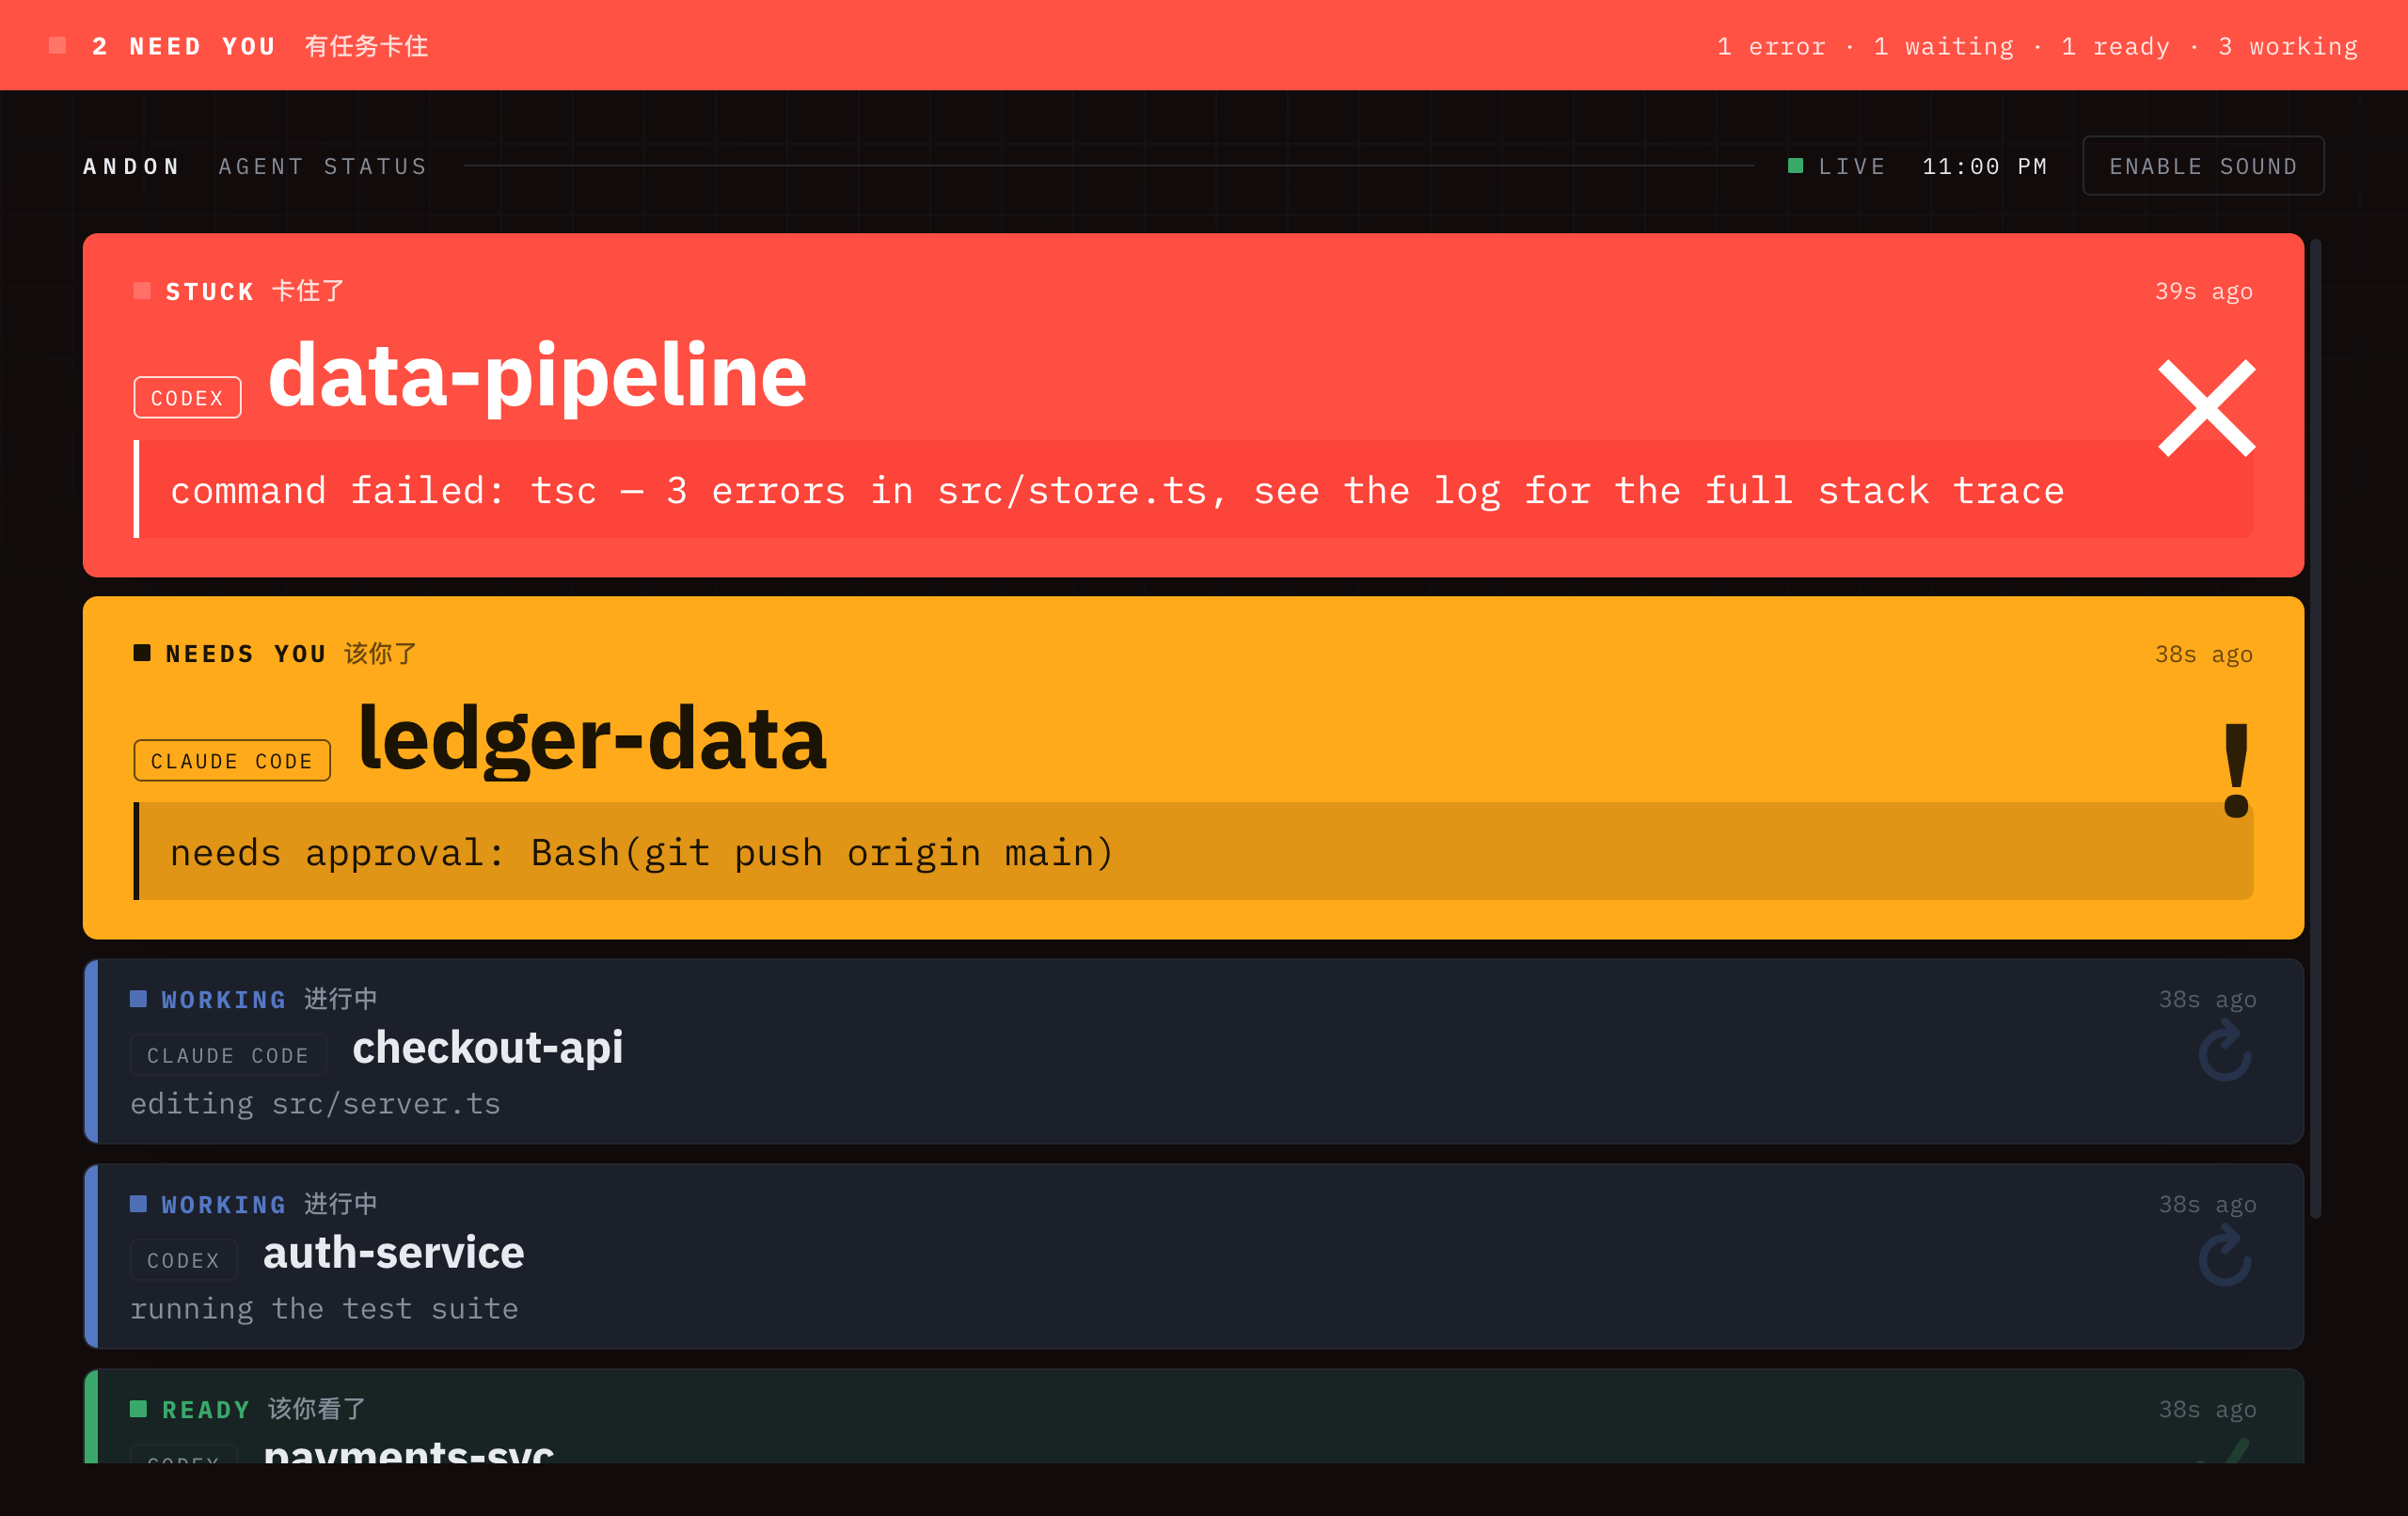
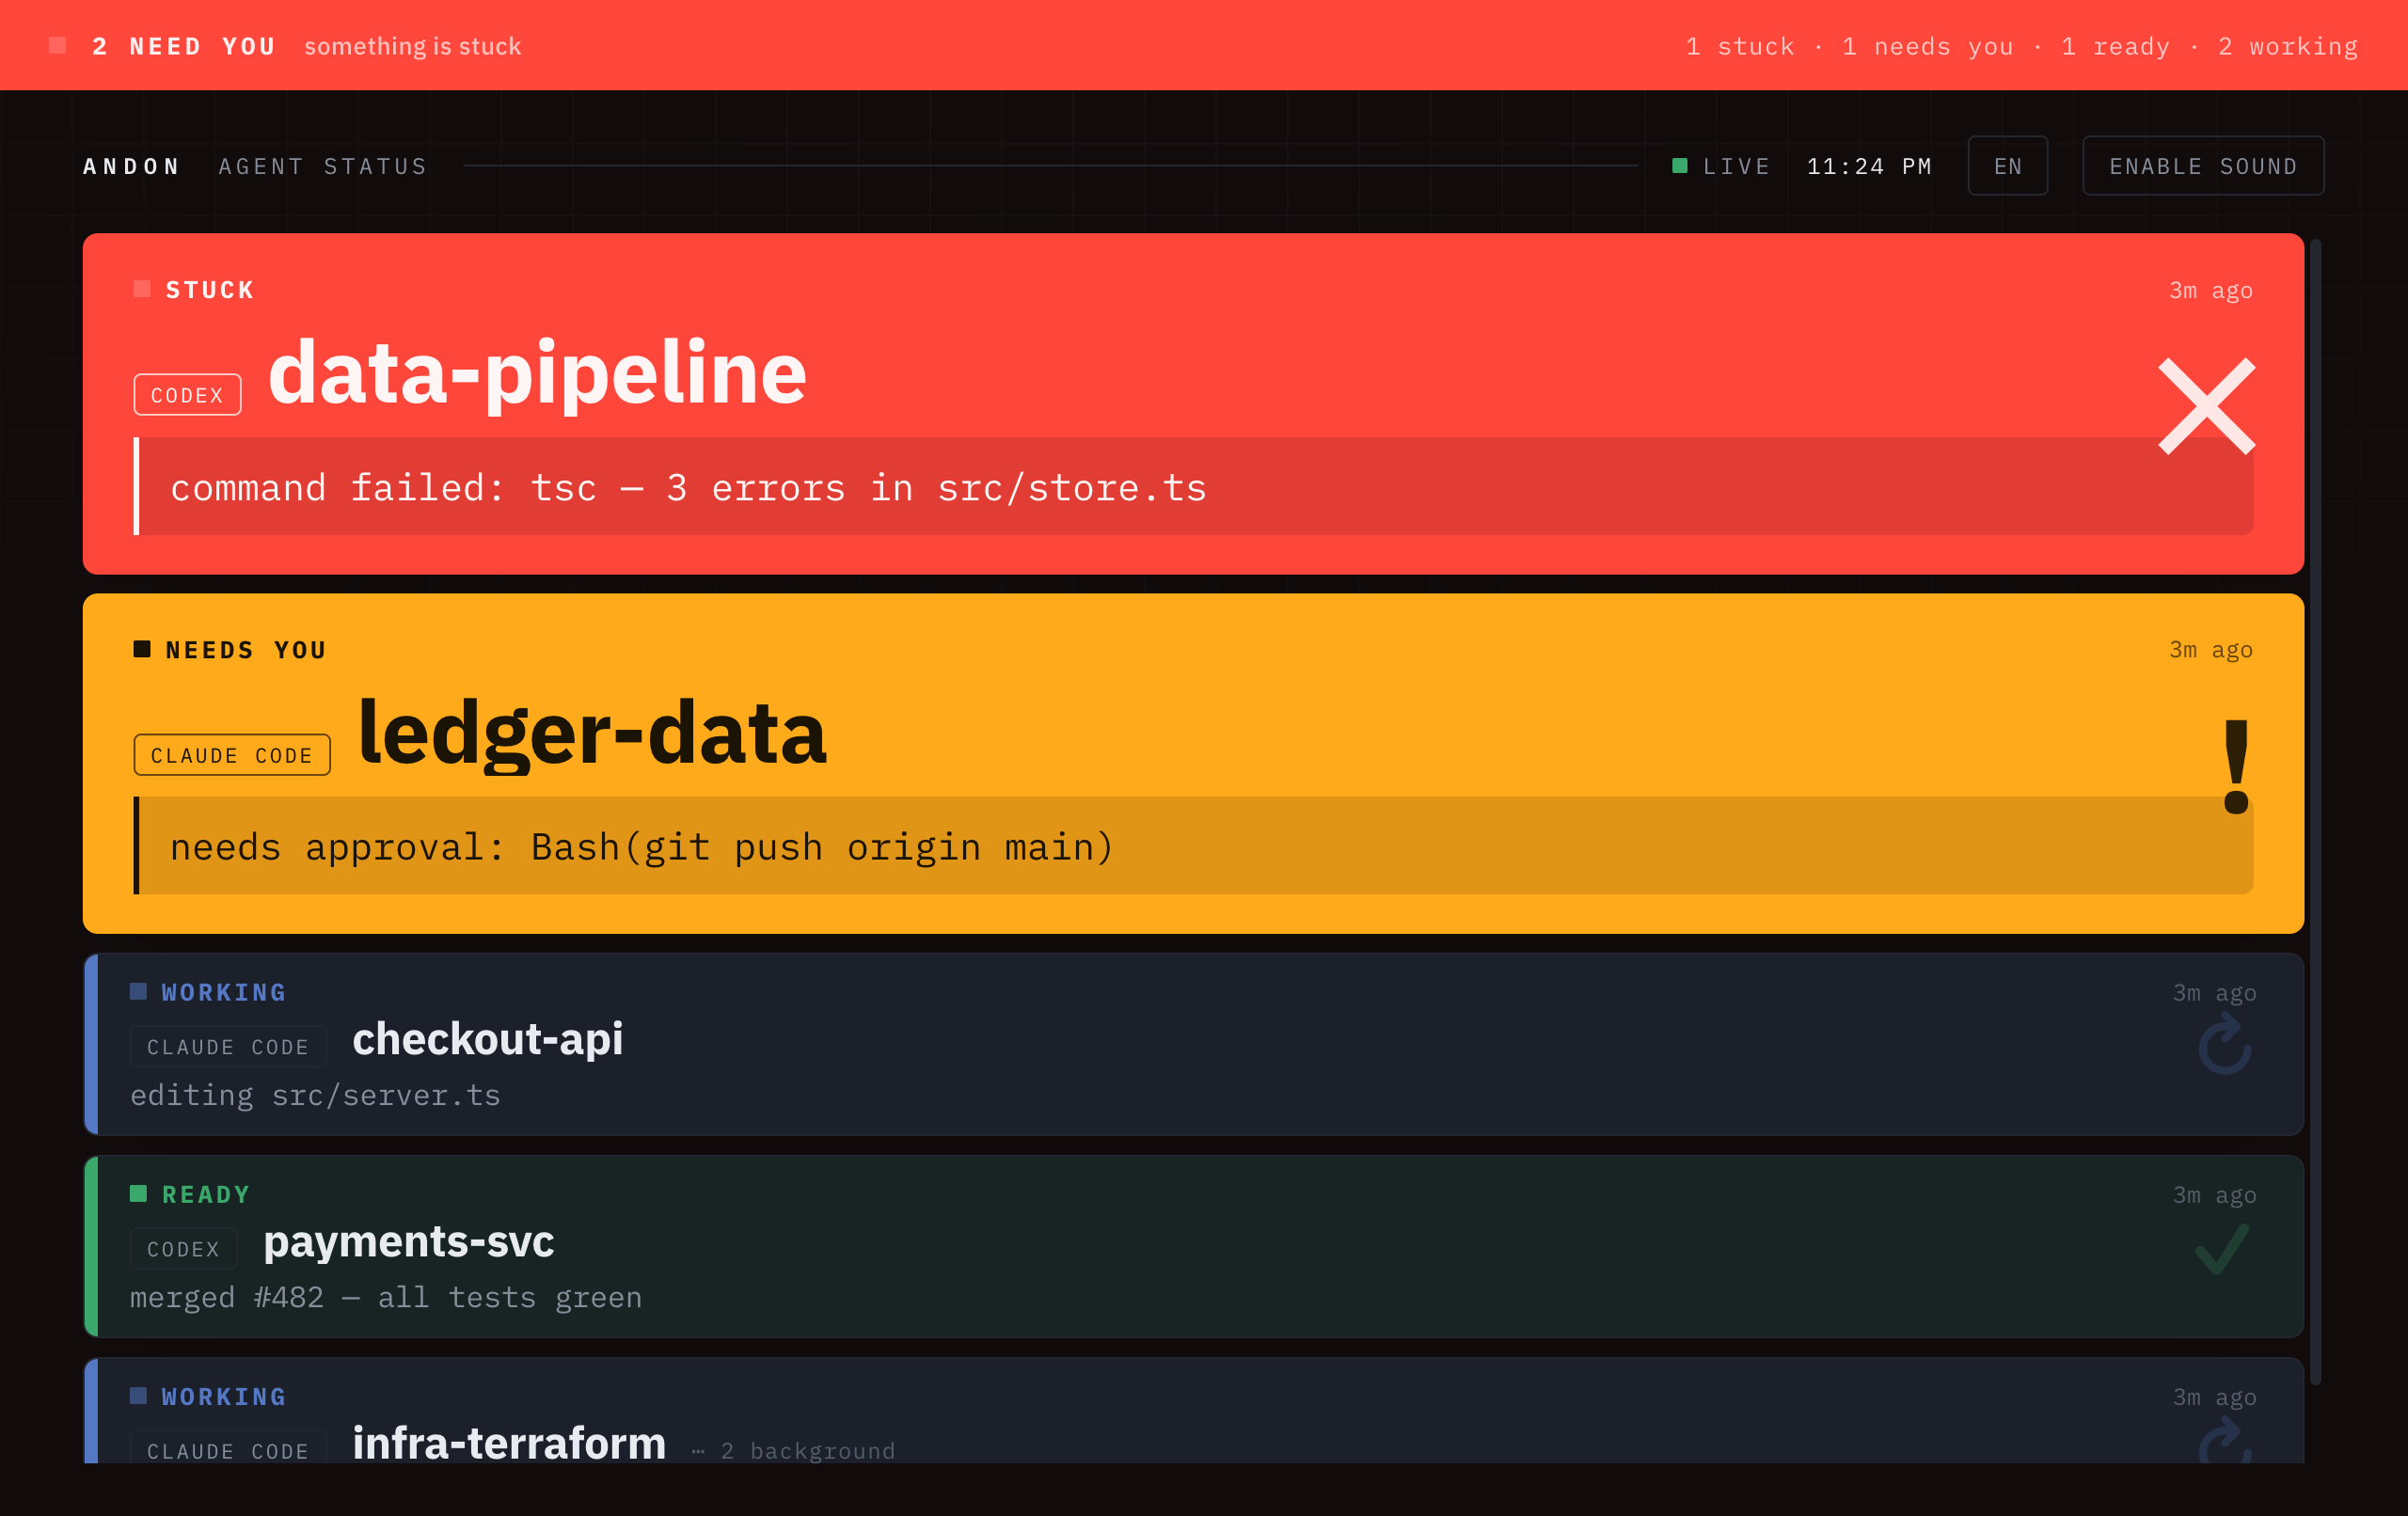
i18n: monolingual board by locale (en/zh/ja) + 双语 mode + switcher
The board was hard-coded EN+中文 everywhere — fine for a bilingual user, wrong
for everyone else, and there was no i18n at all. Add a tiny dependency-free i18n
in the single dashboard.html:

- A STR table per locale (en, zh, ja, and 'bi' = the original EN+中文 look)
  covering all chrome: state chips, the top-bar headlines, the tally nouns,
  background count, empty state, header, live/reconnecting, Enable sound, and
  locale-aware ago() (X秒前 / X分前 / Xs ago).
- Locale resolves: ?lang= → saved choice (localStorage) → navigator.language →
  English. A header language chip cycles EN/中/日/双语, re-renders live (no reload),
  and is remembered per device; <html lang> tracks it.
- Agent messages (commands, file paths) stay verbatim — only chrome is translated.
  Adding a language is one block in the STR table.

README: document the language feature; refresh the hero screenshot to English.
Verified all four locales render and the switcher cycles+persists.

diff --git a/assets/dashboard.html b/assets/dashboard.html
@@ -98,6 +98,8 @@
     transition:color .3s,border-color .3s}
   .btn:hover{color:var(--text);border-color:var(--faint)}
   .btn.on{color:var(--c-done);border-color:rgba(58,168,107,.5)}
+  /* language switcher: fixed width + no uppercasing so 中/日/双语 don't shift the row */
+  .btn.lang{min-width:3.4em;text-align:center;text-transform:none;letter-spacing:.04em}
 
   /* ── the board: one process = one card, fixed slot, never reordered.
         a card appears when its process starts and is removed only when the
@@ -228,10 +230,11 @@
   <div class="app">
     <div class="head">
       <span class="brand">ANDON</span>
-      <span>agent status</span>
+      <span id="headLabel">agent status</span>
       <span class="rule"></span>
       <span class="conn" id="conn"><span class="led"></span><span class="conn-txt">live</span></span>
       <span class="clock" id="clock">--:--</span>
+      <button class="btn lang" id="langBtn" title="Language · 语言 · 言語">EN</button>
       <button class="btn" id="soundBtn">Enable sound</button>
     </div>
     <div class="board" id="board"></div>
@@ -245,13 +248,73 @@
    does, holds a FIXED slot, and only its colour/word change. Nothing is
    dismissable — a card leaves only when the process ends or times out. */
 const PRI   = {error:0, waiting:1, done:2, working:3, idle:4};
-const WORDS = {
-  working:["WORKING","进行中"],
-  waiting:["NEEDS YOU","该你了"],
-  done   :["READY","该你看了"],   // a turn handed back ≠ "all done"; green means "your move"
-  error  :["STUCK","卡住了"],
-  idle   :["IDLE","空闲"],
+
+/* ---------- i18n ----------------------------------------------------------------
+   The board chrome is monolingual per the viewer's locale, with a 双语 (EN+中文)
+   option for bilingual folks. Only CHROME is translated — agent messages
+   (e.g. "needs approval: Bash(git push)", "editing src/server.ts") are code and
+   stay verbatim. Add a language = add one block to STR. Locale resolves as:
+   ?lang=  →  saved choice (localStorage)  →  navigator.language  →  English. */
+function agoEn(s){ if(s<60)return s+"s ago"; const m=(s/60)|0; if(m<60)return m+"m ago"; return ((m/60)|0)+"h "+(m%60)+"m ago"; }
+function agoZh(s){ if(s<60)return s+"秒前"; const m=(s/60)|0; if(m<60)return m+"分钟前"; return ((m/60)|0)+"小时"+(m%60)+"分前"; }
+function agoJa(s){ if(s<60)return s+"秒前"; const m=(s/60)|0; if(m<60)return m+"分前"; return ((m/60)|0)+"時間"+(m%60)+"分前"; }
+
+const STR = {
+  en: {
+    chip:{working:["WORKING",""],waiting:["NEEDS YOU",""],done:["READY",""],error:["STUCK",""],idle:["IDLE",""]},
+    bar:{ error:n=>[n+" NEED YOU","something is stuck"], waiting:n=>[n+" NEED"+(n>1?"":"S")+" YOU","your move"],
+          working:()=>["RUNNING","all running · relax"], done:()=>["YOUR MOVE","all ready · take a look"], idle:()=>["IDLE","nothing running"] },
+    tally:{error:"stuck",waiting:"needs you",done:"ready",working:"working",idle:"idle"}, none:"no agents running",
+    bg:n=>"⋯ "+n+" background",
+    empty:{big:"IDLE",cn:"",sub:"start a run in Claude Code or Codex — it lights up here"},
+    head:"agent status", live:"live", recon:"reconnecting…", off:"OFFLINE", offCn:"lost the Mac", offTally:"reconnecting…",
+    sound:"Enable sound", soundOn:"Sound on", ago:agoEn,
+  },
+  zh: {
+    chip:{working:["进行中",""],waiting:["该你了",""],done:["该你看了",""],error:["卡住了",""],idle:["空闲",""]},
+    bar:{ error:n=>[n+" 个卡住","有任务卡住了"], waiting:n=>[n+" 个待你","该你出手"],
+          working:()=>["运行中","都在跑 · 放心忙别的"], done:()=>["该你看了","都就绪 · 看一眼"], idle:()=>["空闲","没有进程在跑"] },
+    tally:{error:"卡住",waiting:"待你",done:"就绪",working:"运行",idle:"空闲"}, none:"没有进程在跑",
+    bg:n=>"⋯ "+n+" 个后台运行",
+    empty:{big:"空闲",cn:"",sub:"在 Claude Code 或 Codex 跑个任务，这里就会亮起"},
+    head:"状态看板", live:"在线", recon:"重连中…", off:"已离线", offCn:"与 Mac 失联", offTally:"重连中…",
+    sound:"开启提示音", soundOn:"提示音开", ago:agoZh,
+  },
+  ja: {
+    chip:{working:["稼働中",""],waiting:["要対応",""],done:["確認して",""],error:["停止",""],idle:["待機中",""]},
+    bar:{ error:n=>[n+" 件 要対応","タスクが停止"], waiting:n=>[n+" 件 要対応","あなたの番です"],
+          working:()=>["稼働中","実行中 · 別の作業をどうぞ"], done:()=>["確認して","すべて完了 · ご確認を"], idle:()=>["待機中","稼働中のタスクなし"] },
+    tally:{error:"停止",waiting:"要対応",done:"完了",working:"稼働",idle:"待機"}, none:"稼働中のエージェントなし",
+    bg:n=>"⋯ "+n+" 件 バックグラウンド",
+    empty:{big:"待機中",cn:"",sub:"Claude Code か Codex でタスクを開始すると、ここに表示されます"},
+    head:"エージェント状態", live:"接続中", recon:"再接続中…", off:"オフライン", offCn:"Mac と切断", offTally:"再接続中…",
+    sound:"サウンドを有効化", soundOn:"サウンド ON", ago:agoJa,
+  },
+  bi: { /* 双语 — the original EN + 中文 look */
+    chip:{working:["WORKING","进行中"],waiting:["NEEDS YOU","该你了"],done:["READY","该你看了"],error:["STUCK","卡住了"],idle:["IDLE","空闲"]},
+    bar:{ error:n=>[n+" NEED YOU","有任务卡住"], waiting:n=>[n+" NEED"+(n>1?"":"S")+" YOU","该你出手"],
+          working:()=>["RUNNING","进行中 · 放心忙别的"], done:()=>["YOUR MOVE","都就绪 · 该你看了"], idle:()=>["IDLE","空闲"] },
+    tally:{error:"stuck",waiting:"needs you",done:"ready",working:"working",idle:"idle"}, none:"no agents running",
+    bg:n=>"⋯ "+n+" 后台运行 · background",
+    empty:{big:"IDLE",cn:"没有进程在跑",sub:"跑个任务就会亮起来 · start a run in Claude Code or Codex"},
+    head:"agent status", live:"live", recon:"reconnecting…", off:"OFFLINE", offCn:"失联", offTally:"reconnecting…",
+    sound:"Enable sound", soundOn:"Sound on", ago:agoEn,
+  },
 };
+const LOCALES = ["en","zh","ja","bi"];
+const LANG_LABEL = {en:"EN", zh:"中", ja:"日", bi:"双语"};
+function resolveLang(){
+  const q = new URLSearchParams(location.search).get("lang");
+  if (q && STR[q]) return q;
+  let saved=null; try { saved = localStorage.getItem("andon.lang"); } catch(e){}
+  if (saved && STR[saved]) return saved;
+  const n = (navigator.language || "en").toLowerCase();
+  if (n.indexOf("zh") === 0) return "zh";
+  if (n.indexOf("ja") === 0) return "ja";
+  return "en";
+}
+let LANG = resolveLang();
+const S = () => STR[LANG] || STR.en;
 
 /* A process whose foreground stopped (done) but still has background tasks is
    NOT done — it reads as still running. Attention states are never masked. */
@@ -267,6 +330,8 @@ const conn    = document.getElementById("conn");
 const connTxt = conn.querySelector(".conn-txt");
 const clock   = document.getElementById("clock");
 const soundBtn= document.getElementById("soundBtn");
+const langBtn = document.getElementById("langBtn");
+const headLabel = document.getElementById("headLabel");
 const andonWord  = document.getElementById("andonWord");
 const andonCn    = document.getElementById("andonCn");
 const andonTally = document.getElementById("andonTally");
@@ -277,6 +342,7 @@ let order = [];                    // stable card order (first-seen wins; never 
 const cards = new Map();           // id -> card element (reused in place)
 let prevState = {};
 let primed = false;
+let connOk = true;                 // last connection state, for re-rendering on language change
 
 const DONE_GRACE_MS = 4000;   // a "done" must persist this long before it goes green
 const doneSince = new Map();  // id -> serverTime(ms) it first read done (debounce)
@@ -285,14 +351,7 @@ let graceTimer = null;
 const nowSec = () => Date.now()/1000;
 const serverNow = () => nowSec() + skew;
 const agentLabel = a => AGENTS[a] || (a || "AGENT").toUpperCase();
-function ago(sec){
-  sec = Math.max(0, Math.round(sec));
-  if (sec < 60) return sec + "s ago";
-  const m = Math.floor(sec/60);
-  if (m < 60) return m + "m ago";
-  const h = Math.floor(m/60);
-  return h + "h " + (m%60) + "m ago";
-}
+function ago(sec){ return S().ago(Math.max(0, Math.round(sec))); }
 
 /* debounced display state: a transient "done" (a turn briefly ends, or hook
    events arrive slightly out of order) is held as "working" until it stays done
@@ -313,24 +372,26 @@ function counts(list){
   return c;
 }
 function tally(c){
+  const T = S().tally;
   const parts = [];
   for (const k of ["error","waiting","done","working","idle"])
-    if (c[k]) parts.push(c[k] + " " + (k === "done" ? "ready" : k));
+    if (c[k]) parts.push(c[k] + " " + T[k]);
   return parts.join("   ·   ");
 }
 function setBar(list){
   const c = counts(list);
   const need = (c.error || 0) + (c.waiting || 0);
-  let dom, word, cn;
-  if (c.error)        { dom="error";   word=need+" NEED YOU"; cn="有任务卡住"; }
-  else if (c.waiting) { dom="waiting"; word=need+" NEED"+(need>1?"":"S")+" YOU"; cn="该你出手"; }
-  else if (c.working) { dom="working"; word="RUNNING"; cn="进行中 · 放心忙别的"; }
-  else if (c.done)    { dom="done";    word="YOUR MOVE"; cn="都就绪 · 该你看了"; }
-  else                { dom="idle";    word="IDLE"; cn="空闲"; }
+  const B = S().bar;
+  let dom, pair;
+  if (c.error)        { dom="error";   pair=B.error(need); }
+  else if (c.waiting) { dom="waiting"; pair=B.waiting(need); }
+  else if (c.working) { dom="working"; pair=B.working(); }
+  else if (c.done)    { dom="done";    pair=B.done(); }
+  else                { dom="idle";    pair=B.idle(); }
   document.body.dataset.dominant = dom;
-  andonWord.textContent  = word;
-  andonCn.textContent    = cn;
-  andonTally.textContent = list.length ? tally(c) : "no agents running";
+  andonWord.textContent  = pair[0];
+  andonCn.textContent    = pair[1];
+  andonTally.textContent = list.length ? tally(c) : S().none;
 }
 
 /* ---------- cards (created once per process, then updated in place) ---------- */
@@ -348,7 +409,7 @@ function makeCard(){
 function updateCard(el, s, t){
   const vs = dispState(s);
   if (el.dataset.state !== vs) el.dataset.state = vs;   // only this restarts the blink
-  const w = WORDS[vs] || [vs.toUpperCase(), ""];
+  const w = S().chip[vs] || [vs.toUpperCase(), ""];
   el.querySelector(".cw").textContent      = w[0];
   el.querySelector(".chip-cn").textContent = w[1];
   el.querySelector(".glyph").textContent   = GLYPH[vs] || "";
@@ -356,7 +417,7 @@ function updateCard(el, s, t){
   el.querySelector(".title").textContent   = s.title || "—";
   const subs = el.querySelector(".subs");
   const n = s.pending | 0;
-  subs.textContent = n > 0 ? ("⋯ " + n + " 后台运行 · background") : "";
+  subs.textContent = n > 0 ? S().bg(n) : "";
   subs.style.display = n > 0 ? "" : "none";
   const act = el.querySelector(".action");
   act.textContent = s.message || "";
@@ -400,10 +461,11 @@ function render(){
 
   if (list.length === 0){
     order = [];
+    const e = S().empty;
     board.innerHTML =
-      '<div class="idle-hero"><div class="big">IDLE</div>' +
-      '<div class="cn">没有进程在跑</div>' +
-      '<div class="sub">跑个任务就会亮起来 · start a run in Claude Code or Codex</div></div>';
+      '<div class="idle-hero"><div class="big">' + e.big + '</div>' +
+      (e.cn ? '<div class="cn">' + e.cn + '</div>' : '') +
+      '<div class="sub">' + e.sub + '</div></div>';
     return;
   }
   const hero = board.querySelector(".idle-hero");
@@ -473,13 +535,14 @@ const TOKEN = new URLSearchParams(location.search).get("token");
 const withToken = (path) => TOKEN ? path + (path.includes("?") ? "&" : "?") + "token=" + encodeURIComponent(TOKEN) : path;
 
 function setConn(ok){
+  connOk = ok;
   conn.classList.toggle("off", !ok);
-  connTxt.textContent = ok ? "live" : "reconnecting…";
+  connTxt.textContent = ok ? S().live : S().recon;
   if (!ok){
     document.body.dataset.dominant = "offline";
-    andonWord.textContent  = "OFFLINE";
-    andonCn.textContent    = "失联";
-    andonTally.textContent = "reconnecting…";
+    andonWord.textContent  = S().off;
+    andonCn.textContent    = S().offCn;
+    andonTally.textContent = S().offTally;
   }
 }
 function startStream(){
@@ -527,8 +590,25 @@ function armAudio(){ // create + resume the WebAudio context — only works insi
 }
 function reflectSound(){
   soundBtn.classList.toggle("on", soundOn);
-  soundBtn.textContent = soundOn ? "Sound on" : "Enable sound";
+  soundBtn.textContent = soundOn ? S().soundOn : S().sound;
 }
+
+/* apply the current language to all chrome, then re-render. Called at boot and on
+   every switcher click. render() runs before setConn so an offline banner (if any)
+   wins over the live bar. */
+function applyLang(){
+  document.documentElement.lang = (LANG === "bi") ? "zh" : LANG;
+  langBtn.textContent = LANG_LABEL[LANG] || "EN";
+  headLabel.textContent = S().head;
+  reflectSound();
+  render();
+  setConn(connOk);
+}
+langBtn.addEventListener("click", () => {
+  LANG = LOCALES[(LOCALES.indexOf(LANG) + 1) % LOCALES.length];
+  try { localStorage.setItem("andon.lang", LANG); } catch (e){}
+  applyLang();
+});
 soundBtn.addEventListener("click", () => {
   soundOn = !soundOn;
   try { localStorage.setItem("andon.alerts", soundOn ? "on" : "off"); } catch (e){}
@@ -564,7 +644,7 @@ document.addEventListener("visibilitychange", () => {
 
 /* ---------- boot ---------- */
 function tick(){ clock.textContent = new Date().toLocaleTimeString([], {hour:"2-digit", minute:"2-digit"}); }
-render();
+applyLang();   // resolve locale, paint chrome in it, and do the first render
 tick(); setInterval(tick, 1000);
 setInterval(tickAgos, 1000);
 reqWake();

diff --git a/README.md b/README.md
@@ -15,6 +15,7 @@ needs you, done, or stuck** — no babysitting the terminal, no forgetting to co
 - **Zero runtime dependencies** — pure Node.js standard library.
 - **One command to wire up** — `andon install claude` edits your hooks for you (with a backup).
 - **Multi-agent native** — one full-width row per session; whatever needs you floats to the top and a signal bar across the top shows the most-urgent state.
+- **Speaks your language** — the board auto-detects **English / 中文 / 日本語** (plus a 双语 EN+中文 mode); tap the language chip to switch, or `?lang=` to force one.
 - **Just an iPad + Safari** — no app, no hardware, no account.
 
 <sub>中文用户：把闲置 iPad 立在桌边，变成 Claude Code / Codex 的"安灯"状态看板。提交任务后放心去干别的，一瞥就知道 agent 在跑 / 该你了 / 完成了 / 卡住了。</sub>
@@ -45,6 +46,10 @@ State priority (the top bar — and the row order — take the most urgent one):
   screen is always the things waiting on you.
 - **Calm by default** — only the single most-urgent row pulses; everything else stays still.
   Tap **Enable sound** once on the iPad for the chime (remembered across reloads).
+- **Your language** — the board picks **English / 中文 / 日本語** from the browser (or a `双语`
+  EN+中文 mode). Tap the language chip in the header to switch (remembered per device), or open
+  with `?lang=en|zh|ja|bi` to force one. Agent messages (commands, file paths) stay verbatim, and
+  adding a language is a single block in `assets/dashboard.html`.
 
 ---
 